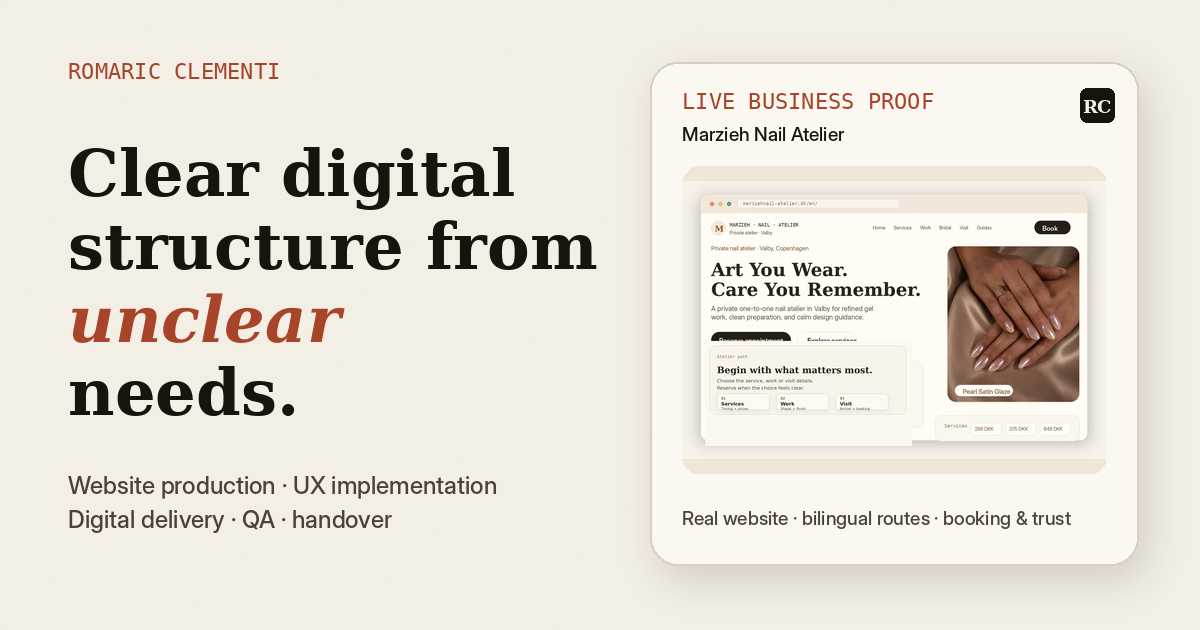
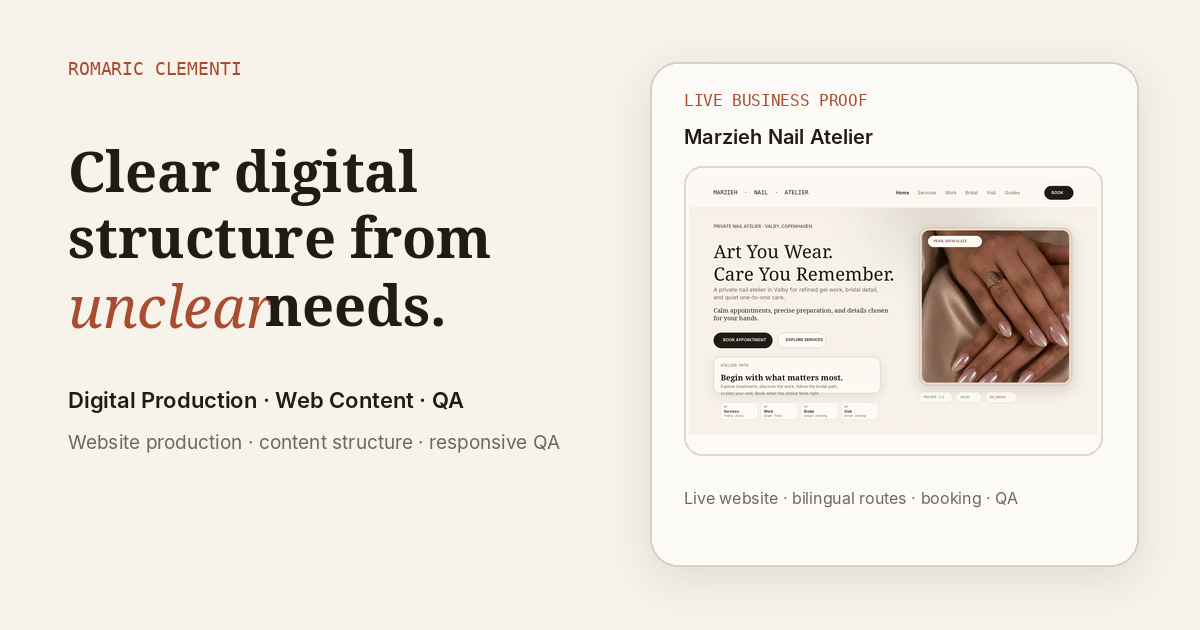
new

diff --git a/app/da/arbejde/marzieh-nail-atelier/page.jsx b/app/da/arbejde/marzieh-nail-atelier/page.jsx
@@ -11,7 +11,7 @@ export const metadata = {
     title: 'Marzieh Nail Atelier case | Romaric Clementi',
     description: 'Fra spredt virksomhedsinformation til en tydelig tosproget bookingrejse.',
     type: 'article',
-    images: [{ url: '/assets/marzieh-homepage-v5114.webp', alt: 'Marzieh Nail Atelier website-interface' }],
+    images: [{ url: '/assets/marzieh-desktop-current.webp', alt: 'Marzieh Nail Atelier website-interface' }],
   },
 };
 
@@ -52,7 +52,7 @@ export default function MarziehCaseStudyDa() {
 
         <div className="project-glance" aria-label="Projektet kort fortalt"><div><span>Kontekst</span><p>Et reelt implementeret projekt for min kones selvstændige virksomhed; ikke en betalt ekstern kundeopgave.</p></div><div><span>Mit ansvar</span><p>Retning, informationsarkitektur, indholdsbeslutninger, implementeringsreview, responsiv QA, deployment og overdragelse.</p></div><div><span>Levering</span><p>Live dansk og engelsk website med service-, booking-, tillids-, politik- og besøgsruter.</p></div></div>
 
-        <figure className="case-cover"><img className="case-transition-image" src="/assets/marzieh-homepage-v5114.webp" width="2048" height="1119" fetchPriority="high" decoding="async" alt="Marzieh Nail Atelier live-forside med navigation, bookinghandlinger og neglebillede" /><figcaption>Live produktionswebsite · danske og engelske ruter</figcaption></figure></div></section>
+        <figure className="case-cover"><img className="case-transition-image" src="/assets/marzieh-desktop-current.webp" width="1600" height="1000" fetchPriority="high" decoding="async" alt="Aktuelt Marzieh Nail Atelier-interface-preview med indhold og billedmateriale fra live-sitet" /><figcaption>Aktuelt interface-preview med indhold og billedmateriale fra live-sitet · danske og engelske ruter</figcaption></figure></div></section>
 
         <section id="project" className="case-section"><div className="wrap case-section__grid"><div className="case-section__heading"><p className="mono">01 / Kontekst</p><h2>En stærk service med spredt kundeinformation.</h2></div><div className="case-copy"><p>Atelieret skulle gøre forskelle mellem services, priser, tidsforbrug, nail-art-muligheder, politikker, placering og booking lettere at forstå. Ejeren havde også brug for én pålidelig kilde til den information, der vises gennem websitet og bookingrejsen.</p><p>Udfordringen var at skabe en rolig premium-oplevelse uden at skjule de praktiske detaljer, mennesker har brug for før en aftale.</p></div></div></section>
 
@@ -60,7 +60,7 @@ export default function MarziehCaseStudyDa() {
 
         <section className="case-section case-section--dark"><div className="wrap"><div className="case-section__heading case-section__heading--wide"><p className="mono">03 / Vigtige beslutninger</p><h2>Fire valg formede kunderejsen.</h2></div><div className="decision-grid">{decisions.map(([title, text], index) => <article key={title}><span>{String(index + 1).padStart(2, '0')}</span><h3>{title}</h3><p>{text}</p></article>)}</div></div></section>
 
-        <section className="case-section case-section--screens"><div className="wrap"><div className="case-section__heading case-section__heading--wide"><p className="mono">04 / Interface</p><h2>Skærmene følger de spørgsmål, kunderne stiller før booking.</h2></div><div className="case-gallery-editorial"><figure className="case-shot case-shot--large"><img src="/assets/marzieh-services-ui-snapshot.webp" width="760" height="520" loading="lazy" decoding="async" alt="Marzieh Nail Atelier service- og prisinterface" /><figcaption><span>Services og priser</span>Gør tilbuddet tydeligt før bookingbeslutningen.</figcaption></figure><figure className="case-shot"><img src="/assets/marzieh-work-ui-snapshot.webp" width="760" height="520" loading="lazy" decoding="async" alt="Marzieh Nail Atelier arbejdsgalleri" /><figcaption><span>Arbejde og tillid</span>Vis kvaliteten og stilen kunden kan forvente.</figcaption></figure><figure className="case-shot"><img src="/assets/marzieh-booking-ui-snapshot.webp" width="760" height="520" loading="lazy" decoding="async" alt="Marzieh Nail Atelier booking- og besøgsinterface" /><figcaption><span>Booking og besøg</span>Gør næste skridt og praktiske detaljer lette at finde.</figcaption></figure></div></div></section>
+        <section className="case-section case-section--screens"><div className="wrap"><div className="case-section__heading case-section__heading--wide"><p className="mono">04 / Interface</p><h2>Skærmene følger de spørgsmål, kunderne stiller før booking.</h2></div><div className="case-gallery-editorial"><figure className="case-shot case-shot--large"><img src="/assets/marzieh-services-current.webp" width="1520" height="1040" loading="lazy" decoding="async" alt="Marzieh Nail Atelier service- og prisinterface" /><figcaption><span>Services og priser</span>Gør tilbuddet tydeligt før bookingbeslutningen.</figcaption></figure><figure className="case-shot"><img src="/assets/marzieh-work-current.webp" width="1520" height="1040" loading="lazy" decoding="async" alt="Marzieh Nail Atelier udvalgt arbejde interface-preview" /><figcaption><span>Arbejde og tillid</span>Vis kvaliteten og stilen kunden kan forvente.</figcaption></figure><figure className="case-shot"><img src="/assets/marzieh-booking-current.webp" width="1520" height="1040" loading="lazy" decoding="async" alt="Marzieh Nail Atelier booking- og besøgsinterface" /><figcaption><span>Booking og besøg</span>Gør næste skridt og praktiske detaljer lette at finde.</figcaption></figure></div></div></section>
 
         <section className="case-section case-section--production"><div className="wrap"><div className="case-section__heading case-section__heading--wide"><p className="mono">05 / Produktion og overdragelse</p><h2>Arbejdet bag de synlige sider.</h2></div><div className="case-evidence-board">{evidence.map(([title, text], index) => <article key={title}><span>{String(index + 1).padStart(2, '0')}</span><h3>{title}</h3><p>{text}</p></article>)}</div><div className="production-disclosure"><h3>AI-assisteret produktion</h3><p>Claude, ChatGPT og andre AI-værktøjer understøttede research, udkast, kodehjælp og sammenligning. Jeg definerede brief og retning, udvalgte og reviderede output, testede implementeringen, traf de endelige beslutninger og havde ansvaret for deployment og overdragelse.</p></div></div></section>
 

diff --git a/app/da/page.jsx b/app/da/page.jsx
@@ -8,7 +8,7 @@ const liveLinks = {
 
 const proofSignals = [
   { value: 'Live virksomhed', label: 'Marzieh Nail Atelier i produktion' },
-  { value: '3 byggede piloter', label: 'Workflow, praktikmatch og privat introduktion' },
+  { value: '3 støtteprojekter', label: 'Workflow, beskæftigelse og privatlivsfokuserede systemer' },
   { value: 'Fra service til booking', label: 'Tilbud, priser, politikker, besøg og bookingvej' },
   { value: 'Flersprogede sider', label: 'DA / EN plus persisk/engelsk pilotlogik' },
   { value: 'GitHub workflow-klar', label: 'Source packages, deploy-noter, versionsspor og QA' },
@@ -41,7 +41,7 @@ const roleFitLanes = [
 const pilotProjects = [
   {
     eyebrow: 'Service- og workflowsystem',
-    status: 'Offentlig preview',
+    status: 'Privat gennemgang',
     title: 'Clementi AI Workflow',
     role: 'SME-services, workflow-gennemgang og praktiske AI-grænser',
     text:
@@ -51,13 +51,13 @@ const pilotProjects = [
       'Noter, værktøjer og PDF-leverancer',
       'Én pålidelig kilde og ansvarlige AI-grænser',
     ],
-    link: 'https://clementi-ai-workflow-pages-preview.pages.dev/',
-    linkLabel: 'Åbn preview',
+    link: null,
+    linkLabel: 'Gennemgang efter aftale',
     bestFor: 'Viser servicearkitektur, workflowforståelse og evnen til at gøre et uklart tilbud lettere at gennemgå og bruge.',
   },
   {
     eyebrow: 'Pilot for flere aktører',
-    status: 'Offentlig pilot',
+    status: 'Privat gennemgang',
     title: 'FørsteMatch',
     role: 'Klarhed for kandidat, virksomhed og rådgiver før officiel overdragelse',
     text:
@@ -67,8 +67,8 @@ const pilotProjects = [
       'Matchbrief, formularer og dokumenter',
       'Privatlivsgrænser uden CPR eller diagnoser',
     ],
-    link: 'https://foerstematch-pilot.pages.dev/',
-    linkLabel: 'Åbn pilot',
+    link: null,
+    linkLabel: 'Gennemgang efter aftale',
     bestFor: 'Viser aktørkortlægning, tosproget kommunikation, privatlivsgrænser og menneskelig vurdering.',
   },
   {
@@ -237,7 +237,7 @@ export default function DanishPortfolio() {
                 <div className="signal-map__output"><span className="mono">Brugbart output</span><b>Klar første version</b><small>brugbart · let at gennemgå · klar til overdragelse</small></div>
               </div>
               <figure className="hero-live-proof">
-                <img src="/assets/marzieh-mobile-live.jpg" alt="Reelt mobilskærmbillede af Marzieh Nail Atelier-websitet" width="688" height="1536" loading="lazy" decoding="async" />
+                <img src="/assets/marzieh-pearl-proof.webp" alt="Pearl Satin Glaze-neglebillede fra Marzieh Nail Atelier live-websitet" width="600" height="600" loading="lazy" decoding="async" />
                 <figcaption><span className="mono">Live dokumentation</span><b>Marzieh Nail Atelier</b></figcaption>
               </figure>
               <dl>
@@ -293,25 +293,25 @@ export default function DanishPortfolio() {
                   <div className="featured-case__visual-grid">
                     <figure className="featured-case__desktop">
                       <img
-                        src="/assets/marzieh-homepage-v5114.webp"
-                        alt="Desktop-preview af Marzieh Nail Atelier-websitet"
-                        width="1365"
-                        height="768"
+                        src="/assets/marzieh-desktop-current.webp"
+                        alt="Aktuelt desktop-interface-preview af Marzieh Nail Atelier-websitet"
+                        width="1600"
+                        height="1000"
                         loading="eager"
                         decoding="async"
                       />
-                      <figcaption>Interface-preview · live website er linket nedenfor</figcaption>
+                      <figcaption>Aktuelt desktop-interface-preview · live website er linket nedenfor</figcaption>
                     </figure>
                     <figure className="featured-case__mobile">
                       <img
-                        src="/assets/marzieh-mobile-live.jpg"
-                        alt="Reelt mobilskærmbillede af Marzieh Nail Atelier-websitet"
-                        width="688"
-                        height="1536"
+                        src="/assets/marzieh-mobile-live-cropped.webp"
+                        alt="Reelt mobiludsnit af Marzieh Nail Atelier-websitet uden browserens top- og bundlinjer"
+                        width="676"
+                        height="1218"
                         loading="lazy"
                         decoding="async"
                       />
-                      <figcaption>Reelt mobilskærmbillede</figcaption>
+                      <figcaption>Reelt mobiludsnit · browserramme fjernet</figcaption>
                     </figure>
                   </div>
                 </div>

diff --git a/app/page.jsx b/app/page.jsx
@@ -12,8 +12,8 @@ const proofSignals = [
     label: 'Marzieh Nail Atelier in production',
   },
   {
-    value: '3 built pilots',
-    label: 'Workflow, employment and private-introduction systems',
+    value: '3 supporting projects',
+    label: 'Workflow, employment and privacy-first systems',
   },
   {
     value: 'Service to booking',
@@ -60,7 +60,7 @@ const roleFitLanes = [
 const pilotProjects = [
   {
     eyebrow: 'Service and workflow system',
-    status: 'Public preview',
+    status: 'Private walkthrough',
     title: 'Clementi AI Workflow',
     role: 'SME services, workflow reviews and practical AI boundaries',
     text:
@@ -70,13 +70,13 @@ const pilotProjects = [
       'Notes, tools and PDF deliverables',
       'Source-of-truth thinking and responsible AI boundaries',
     ],
-    link: 'https://clementi-ai-workflow-pages-preview.pages.dev/',
-    linkLabel: 'Open preview',
+    link: null,
+    linkLabel: 'Walkthrough available on request',
     bestFor: 'Shows service architecture, workflow judgement and the ability to turn an unclear offer into something people can review and use.',
   },
   {
     eyebrow: 'Stakeholder-flow pilot',
-    status: 'Public pilot',
+    status: 'Private walkthrough',
     title: 'FørsteMatch',
     role: 'Candidate, company and advisor clarity before official handoff',
     text:
@@ -86,8 +86,8 @@ const pilotProjects = [
       'Match brief, forms and documents',
       'Privacy boundaries with no CPR or diagnoses',
     ],
-    link: 'https://foerstematch-pilot.pages.dev/',
-    linkLabel: 'Open pilot',
+    link: null,
+    linkLabel: 'Walkthrough available on request',
     bestFor: 'Shows stakeholder mapping, bilingual communication, privacy boundaries and human-reviewed decision flow.',
   },
   {
@@ -261,8 +261,8 @@ export default function Home() {
                 <div className="signal-map__output"><span className="mono">Useful output</span><b>Clear first version</b><small>usable · reviewable · ready to hand over</small></div>
               </div>
               <figure className="hero-live-proof">
-                <img src="/assets/marzieh-mobile-live.jpg" alt="Real mobile screenshot of the live Marzieh Nail Atelier website" width="688" height="1536" loading="lazy" decoding="async" />
-                <figcaption><span className="mono">Live proof</span><b>Marzieh Nail Atelier</b></figcaption>
+                <img src="/assets/marzieh-pearl-proof.webp" alt="Pearl Satin Glaze nail image from the Marzieh Nail Atelier live website" width="600" height="600" loading="lazy" decoding="async" />
+                <figcaption><span className="mono">Live-site proof</span><b>Marzieh Nail Atelier</b></figcaption>
               </figure>
               <dl>
                 <div className="row">
@@ -319,25 +319,25 @@ export default function Home() {
                   <div className="featured-case__visual-grid">
                     <figure className="featured-case__desktop">
                       <img
-                        src="/assets/marzieh-homepage-v5114.webp"
-                        alt="Desktop interface preview of the Marzieh Nail Atelier website"
-                        width="1365"
-                        height="768"
+                        src="/assets/marzieh-desktop-current.webp"
+                        alt="Current desktop interface preview of the Marzieh Nail Atelier website"
+                        width="1600"
+                        height="1000"
                         loading="eager"
                         decoding="async"
                       />
-                      <figcaption>Interface preview · live website linked below</figcaption>
+                      <figcaption>Current desktop interface preview · live website linked below</figcaption>
                     </figure>
                     <figure className="featured-case__mobile">
                       <img
-                        src="/assets/marzieh-mobile-live.jpg"
-                        alt="Real mobile screenshot of the live Marzieh Nail Atelier website"
-                        width="688"
-                        height="1536"
+                        src="/assets/marzieh-mobile-live-cropped.webp"
+                        alt="Real mobile capture of the Marzieh Nail Atelier website with browser chrome removed"
+                        width="676"
+                        height="1218"
                         loading="lazy"
                         decoding="async"
                       />
-                      <figcaption>Real mobile screenshot</figcaption>
+                      <figcaption>Real mobile capture · browser chrome removed</figcaption>
                     </figure>
                   </div>
                 </div>

diff --git a/app/work/marzieh-nail-atelier/page.jsx b/app/work/marzieh-nail-atelier/page.jsx
@@ -15,7 +15,7 @@ export const metadata = {
     title: 'Marzieh Nail Atelier Case Study | Romaric Clementi',
     description: 'From scattered business information to a clear bilingual booking journey.',
     type: 'article',
-    images: [{ url: '/assets/marzieh-homepage-v5114.webp', alt: 'Marzieh Nail Atelier website interface' }],
+    images: [{ url: '/assets/marzieh-desktop-current.webp', alt: 'Marzieh Nail Atelier website interface' }],
   },
 };
 
@@ -79,8 +79,8 @@ export default function MarziehCaseStudy() {
             </div>
 
             <figure className="case-cover">
-              <img className="case-transition-image" src="/assets/marzieh-homepage-v5114.webp" width="2048" height="1119" fetchPriority="high" decoding="async" alt="Marzieh Nail Atelier live homepage hero with navigation, booking actions and nail imagery" />
-              <figcaption>Live production website · English and Danish routes</figcaption>
+              <img className="case-transition-image" src="/assets/marzieh-desktop-current.webp" width="1600" height="1000" fetchPriority="high" decoding="async" alt="Current Marzieh Nail Atelier interface preview using live-site content and imagery" />
+              <figcaption>Current interface preview using live-site content and imagery · English and Danish routes</figcaption>
             </figure>
           </div>
         </section>
@@ -110,9 +110,9 @@ export default function MarziehCaseStudy() {
           <div className="wrap">
             <div className="case-section__heading case-section__heading--wide"><p className="mono">04 / Interface</p><h2>The screens follow the questions clients ask before booking.</h2></div>
             <div className="case-gallery-editorial">
-              <figure className="case-shot case-shot--large"><img src="/assets/marzieh-services-ui-snapshot.webp" width="760" height="520" loading="lazy" decoding="async" alt="Marzieh Nail Atelier service and pricing interface" /><figcaption><span>Services and prices</span>Clarify the offer before the booking decision.</figcaption></figure>
-              <figure className="case-shot"><img src="/assets/marzieh-work-ui-snapshot.webp" width="760" height="520" loading="lazy" decoding="async" alt="Marzieh Nail Atelier work gallery interface" /><figcaption><span>Work and trust</span>Show the quality and style clients can expect.</figcaption></figure>
-              <figure className="case-shot"><img src="/assets/marzieh-booking-ui-snapshot.webp" width="760" height="520" loading="lazy" decoding="async" alt="Marzieh Nail Atelier booking and visit interface" /><figcaption><span>Booking and visit</span>Make the next step and practical details easy to find.</figcaption></figure>
+              <figure className="case-shot case-shot--large"><img src="/assets/marzieh-services-current.webp" width="1520" height="1040" loading="lazy" decoding="async" alt="Marzieh Nail Atelier service and pricing interface" /><figcaption><span>Services and prices</span>Clarify the offer before the booking decision.</figcaption></figure>
+              <figure className="case-shot"><img src="/assets/marzieh-work-current.webp" width="1520" height="1040" loading="lazy" decoding="async" alt="Marzieh Nail Atelier selected work interface preview" /><figcaption><span>Work and trust</span>Show the quality and style clients can expect.</figcaption></figure>
+              <figure className="case-shot"><img src="/assets/marzieh-booking-current.webp" width="1520" height="1040" loading="lazy" decoding="async" alt="Marzieh Nail Atelier booking and visit interface" /><figcaption><span>Booking and visit</span>Make the next step and practical details easy to find.</figcaption></figure>
             </div>
           </div>
         </section>

diff --git a/README.md b/README.md
@@ -1,29 +1,28 @@
-# Romaric Clementi Digital Portfolio V6.3 - Restored Fidelity
+# Romaric Clementi Digital Portfolio V6.4
 
-Built directly from the uploaded, production-verified V5.11.9 source. This version restores the visual and evidential depth that was lost in the simplified V6 rebuild while keeping the approved human-language improvements.
+Private-walkthrough and professional-proof update built from the restored V6.3 / uploaded V5.11.9 production baseline.
 
-## Restored from V5.11.9
-- Self-hosted Fraunces, Hanken Grotesk and IBM Plex Mono typography
-- Quick scan / Deep dive
-- Proof dashboard
-- Rich Marzieh selected-project presentation and full case-study routes
-- Three supporting project cards
-- Operations backbone and numeric proof
-- Real Source / Structure / Build / Handover production sequence
-- Role-fit, Build & QA, evidence board, CMS/Jira proof and First 30 days
-- Romaric portrait in Contact
-- Full EN / DA switch and routes
+## What changed in V6.4
+- Clementi AI Workflow: no public preview URL; walkthrough available on request only.
+- FørsteMatch: no public pilot URL; walkthrough available on request only.
+- HamdamBridge remains walkthrough-only.
+- Supporting-project proof now says `3 supporting projects` instead of `3 built pilots`.
+- Replaced the raw phone/browser presentation with a cropped real mobile capture that removes browser and device chrome.
+- Replaced the older Marzieh desktop proof with a cleaner current interface preview built from verified live-site copy and existing site imagery.
+- Updated service and visit interface previews to current service/visit information.
+- Rebuilt the selected-work preview at higher resolution with a consistent editorial treatment.
+- Replaced the tiny hero screenshot with a clean Pearl Satin Glaze proof image.
+- Retired the older raw/stale proof assets so they cannot accidentally return later.
+- Updated OG image to the new proof treatment.
+- EN/DA routes and language switch remain intact.
+- V6.3 Cloudflare route guards remain intact.
 
-## V6.3 improvements
-- Role identity: Digital Production · Web Content · QA
-- Human hero language without the repeated friction framework
-- Current Marzieh desktop preview plus a real mobile screenshot
-- Clementi AI Workflow and FørsteMatch public links restored
-- HamdamBridge remains private, walkthrough only
-- AI disclosure consolidated rather than repeated across the homepage
-- Danish re-authored rather than translated literally
-- Prebuild guard removes stale app/(en) routes and detects duplicate public routes
-- Cloudflare security headers retained
+## Proof-image terminology
+The portfolio intentionally distinguishes between:
+- **Interface preview**: a curated portfolio visual using verified live-site copy and genuine project imagery. It is not presented as a literal browser screenshot.
+- **Real mobile capture**: an actual mobile capture of the Marzieh website, cropped only to remove browser/device chrome.
+
+This avoids presenting reconstructed interface visuals as literal screenshots.
 
 ## Cloudflare
 Use Node 22.16.0 and pnpm 10.11.1.
